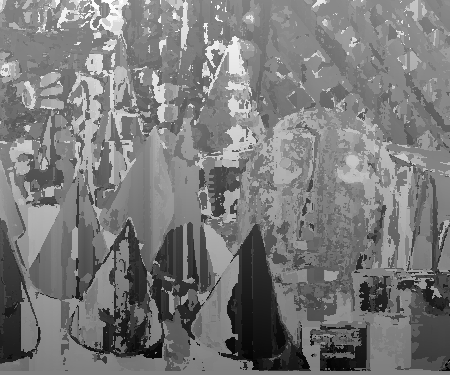
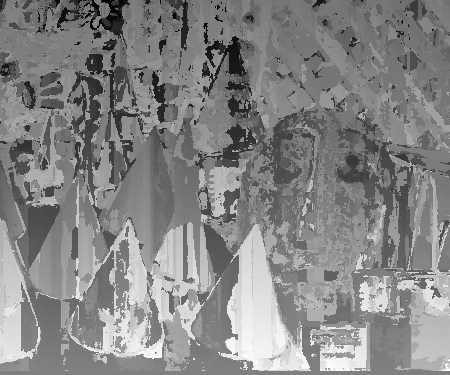
Reverse signal on the output

diff --git a/main.py b/main.py
@@ -57,7 +57,7 @@ def process_step(xy):
     d = distance((x,y), (xr,y))
     if match.distance > d:
       match.distance = d
-      match.disparity = x - xr
+      match.disparity = xr - x
 
   return x, y, match
 

diff --git a/metrics.py b/metrics.py
@@ -68,4 +68,4 @@ print("Done!")
 
 
 # Calculating Root-Mean square error
-print(f"Root-Mean Square Error: {rmse(img_out, img_ground)}")
+print(f"Root-Mean Square Error: {rmse(img_out, img_ground):.2f}")
